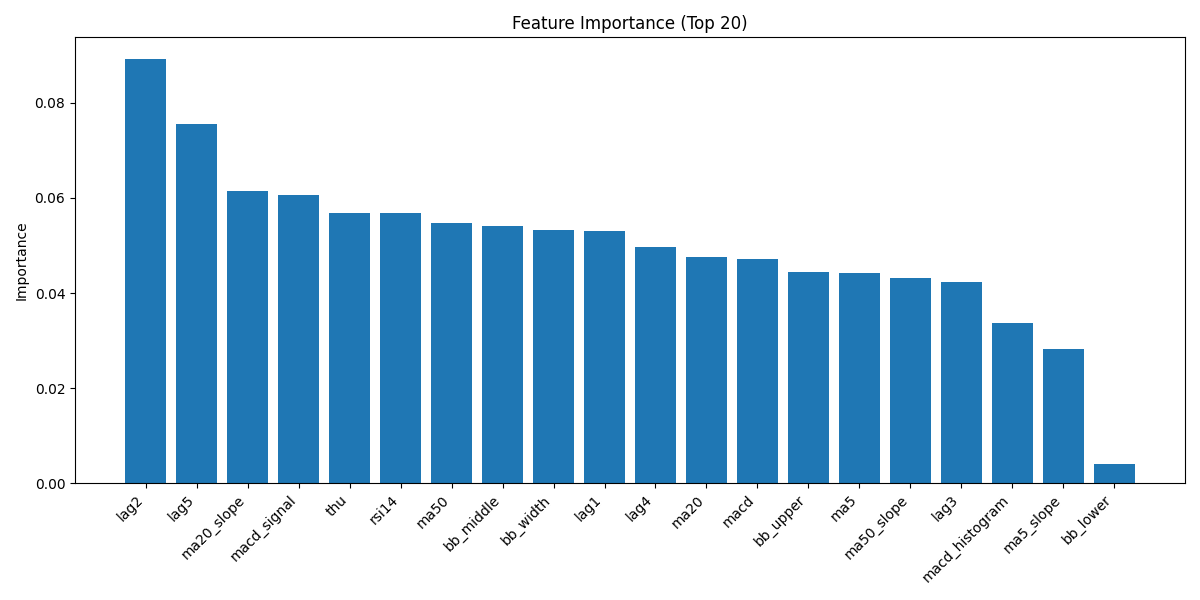
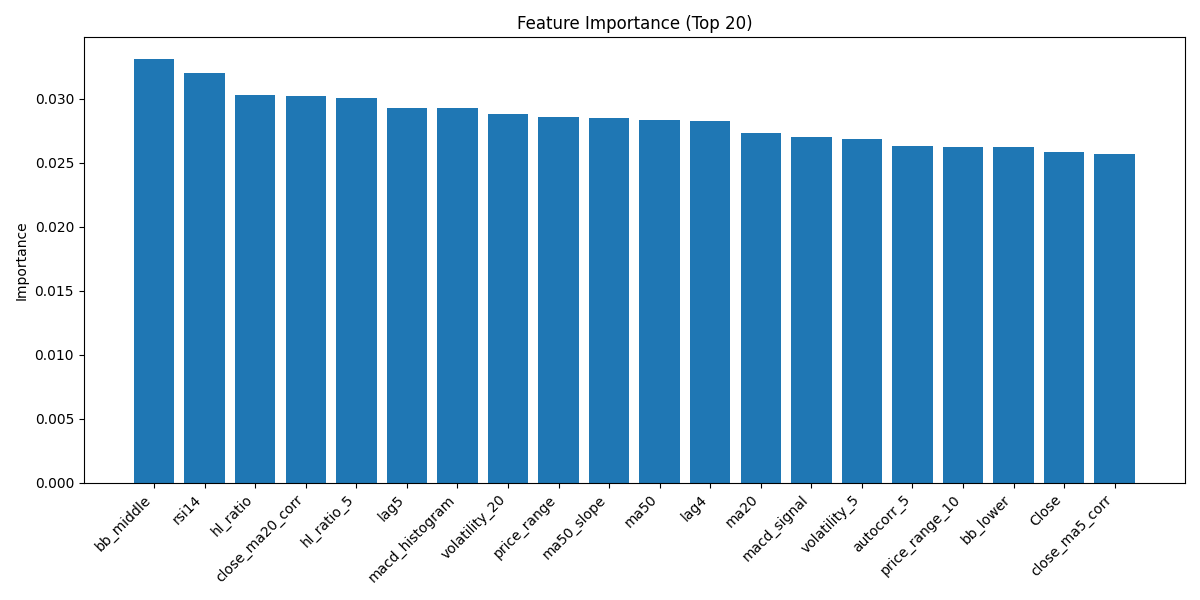
Update model training parameters and replace feature importance images
- Optimized hyperparameters for XGBClassifier in `train.py`: reduced n_estimators from 300 to 100, max_depth from 5 to 4, learning_rate from 0.05 to 0.01, and subsample from 0.8 to 0.6 for improved efficiency and convergence.
- Updated feature importance and backtest equity curve images to reflect recent model changes.

diff --git a/model/train.py b/model/train.py
@@ -108,14 +108,19 @@ def train_model(df_features: pd.DataFrame, test_mode: bool = False) -> XGBClassi
 
         print(f"✓ Data split (8:2, no shuffle): train={len(X_train)}, test={len(X_test)}")
 
-        # Initialize XGBClassifier with fixed hyperparameters
-        # Production config: n_estimators=300; Test config: n_estimators=10
-        n_estimators = 10 if test_mode else 300
+        # Initialize XGBClassifier with optimized hyperparameters from GridSearch
+        # Optimized hyperparameters (Step 2.2):
+        # - n_estimators: 100 (reduced from 300 for efficiency)
+        # - max_depth: 4 (reduced from 5 to prevent overfitting)
+        # - learning_rate: 0.01 (reduced from 0.05 for better convergence)
+        # - subsample: 0.6 (reduced from 0.8 to improve robustness)
+        # - colsample_bytree: 0.8 (optimal from tuning)
+        n_estimators = 10 if test_mode else 100  # Changed from 300 to 100
         model = XGBClassifier(
             n_estimators=n_estimators,
-            max_depth=5,
-            learning_rate=0.05,
-            subsample=0.8,
+            max_depth=4,  # Changed from 5 to 4
+            learning_rate=0.01,  # Changed from 0.05 to 0.01
+            subsample=0.6,  # Changed from 0.8 to 0.6
             colsample_bytree=0.8,
             objective='binary:logistic',
             random_state=42,
